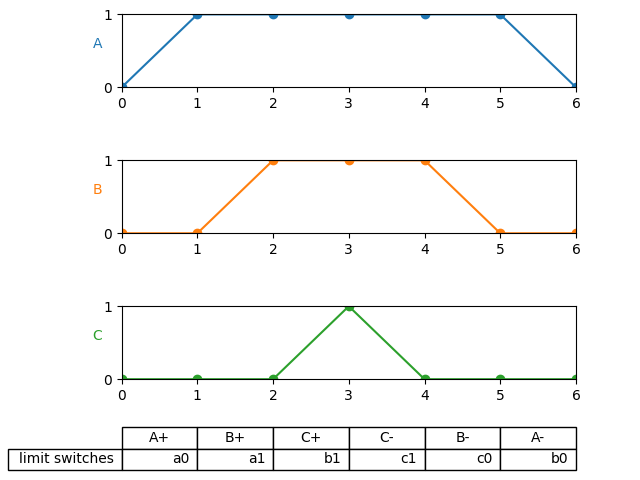
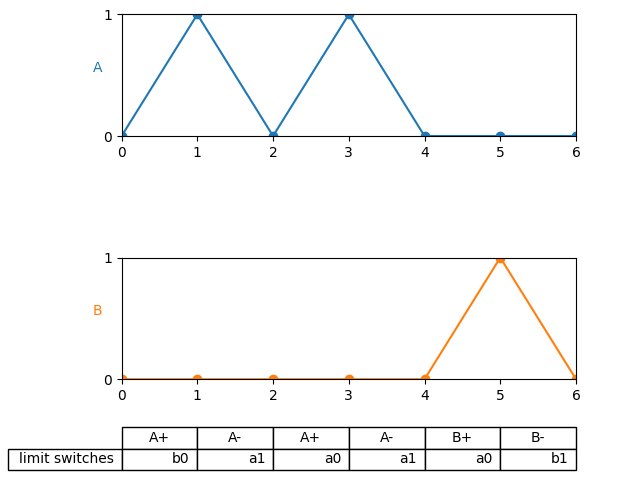
Up to date
New version of the plc converter alghorithm. Now it works as the plc reads the program in loop from start to finish, until the IF statements are false.
I made the IF statements so that the inputs and outputs are not accessible until the Real Life limit switches are triggered.
This prevents the errors when multiple signals arrive to the same electrovalve.

diff --git a/plc.bak2.py b/plc.bak2.py
@@ -136,32 +136,19 @@ class Plc():
                 f.write('END_IF;\n\n')
 
             #------------NEXT GROUPS-------------------------
-            stroke_index_return = stroke_index
             for j in range(number_of_memories):
                 finish_group = 0
 
                 f.write(f'IF {limit_switches[stroke_index - 1]} AND {relay_memory_label[j]} THEN\n')
-                f.write(f'\t{solenoids[stroke_index]} := TRUE;\n')
-                while finish_group < len(plc_groups[j + 1]):
-                    stroke_index += 1
-                    finish_group += 1
-                f.write('END_IF;\n\n')
-            
-            stroke_index = stroke_index_return
-            for j in range(number_of_memories):
-                finish_group = 0
-                f.write(f'\nIF {relay_memory_label[j]} THEN\n\t')
                 while finish_group < len(plc_groups[j + 1]):
                     # while the group isn't finished continue to write the triggered limit switches and solenoids
-                    if finish_group != (len(plc_groups[j+1]) - 1):
-                        f.write(f'IF {limit_switches[stroke_index]} THEN\n\t')
-                        stroke_index += 1
-                        f.write(f'\t{solenoids[stroke_index]} := TRUE;\n\t')
-                    else:
-                        stroke_index += 1
+                    f.write(f'\t{solenoids[stroke_index]} := TRUE;\n\t')
                     if finish_group > 0:
                         f.write('END_IF;\n\t')
+                    if finish_group != (len(plc_groups[j+1]) - 1):
+                        f.write(f'IF {limit_switches[stroke_index]} THEN\n\t')
                     # we move by one index at the time until the group does not finish
+                    stroke_index += 1
                     finish_group += 1
                 
                 f.write(f'IF {relay_memory_switches[j][1]} THEN\n\t\t')
@@ -192,7 +179,7 @@ class Plc():
                     f.write('END_IF;\n')
                 else:
                     for i in range(1, number_of_memories):
-                        f.write(f'AND NOT {relay_memory_label[i]} ')
+                        f.write(f'AND {relay_memory_label[i]} = False ')
                     f.write('THEN\n')
                     f.write(f'\t{solenoids[stroke_index]} := TRUE;\n')
                     f.write('END_IF;\n')
